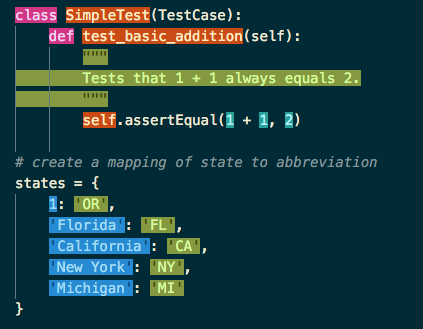
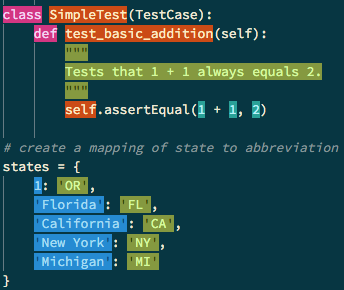
tighten up python

Changed region(s): [[0.0, 0.0, 0.9593, 0.4345], [0.0, 0.4655, 0.9884, 0.931], [0.0, 0.9, 0.0581, 0.9931]]

diff --git a/styles/languages/python.less b/styles/languages/python.less
@@ -30,4 +30,13 @@
   //.parameters.function { .orange; }
   .function.name.entity { .orange; }
   .class.type.name { .orange; }
+
+  .decorator.function.name.entity {
+    color: @orange-text-sec;
+  }
+
+  .decorator > .builtin {
+    color: @orange-text-sec;
+    background-color: @orange-bg;
+  }
 }

diff --git a/styles/colors.less b/styles/colors.less
@@ -19,7 +19,7 @@
 @accent: #6c71c4;
 
 @orange-text: #fbebc6;
-@orange-text-sec: #fbbb86;
+@orange-text-sec: #6b2b06;
 @orange-bg: #cb4b16;
 
 @green-text: #d5f9a0;

diff --git a/code-samples/python-sample.py b/code-samples/python-sample.py
@@ -5,6 +5,28 @@ Replace this with more appropriate tests for your application.
 """
 
 from django.test import TestCase
+from contextlib import contextmanager
+
+
+@contextmanager
+def pointless_context_manager(filename=__file__):
+    """Does something unnecessary
+
+    Args:
+        filename(Optional[str]): the file to be outrageous with.
+    """
+    with open(filename) as fp:
+        yield fp
+
+
+class Something(object):
+
+    def __init__(self, the_thing):
+        self._the_thing = the_thing
+
+    @property
+    def the_thing(self):
+        return self._the_thing
 
 
 class SimpleTest(TestCase):
@@ -322,9 +344,12 @@ class Feed(models.Model):
     title = models.CharField(max_length=500)
     feed_url = models.URLField(unique=True, max_length=500)
     public_url = models.URLField(max_length=500)
-    approval_status = models.CharField(max_length=1, choices=STATUS_CHOICES, default=PENDING_FEED)
+    approval_status = models.CharField(max_length=1, choices=STATUS_CHOICES,
+                                       default=PENDING_FEED)
     feed_type = models.ForeignKey(FeedType, on_delete=models.CASCADE)
-    owner = models.ForeignKey(User, blank=True, null=True, related_name='owned_feeds', on_delete=models.SET_NULL)
+    owner = models.ForeignKey(User, blank=True, null=True,
+                              related_name='owned_feeds',
+                              on_delete=models.SET_NULL)
 
     def __str__(self):
         return self.title
@@ -333,7 +358,8 @@ class Feed(models.Model):
         super(Feed, self).save(**kwargs)
         if settings.SUPERFEEDR_CREDS is not None:
             if self.approval_status == APPROVED_FEED:
-                Subscription.objects.subscribe(self.feed_url, settings.PUSH_HUB)
+                Subscription.objects.subscribe(
+                    self.feed_url, settings.PUSH_HUB)
             elif self.approval_status == DENIED_FEED:
                 self.unsubscribe()
 
